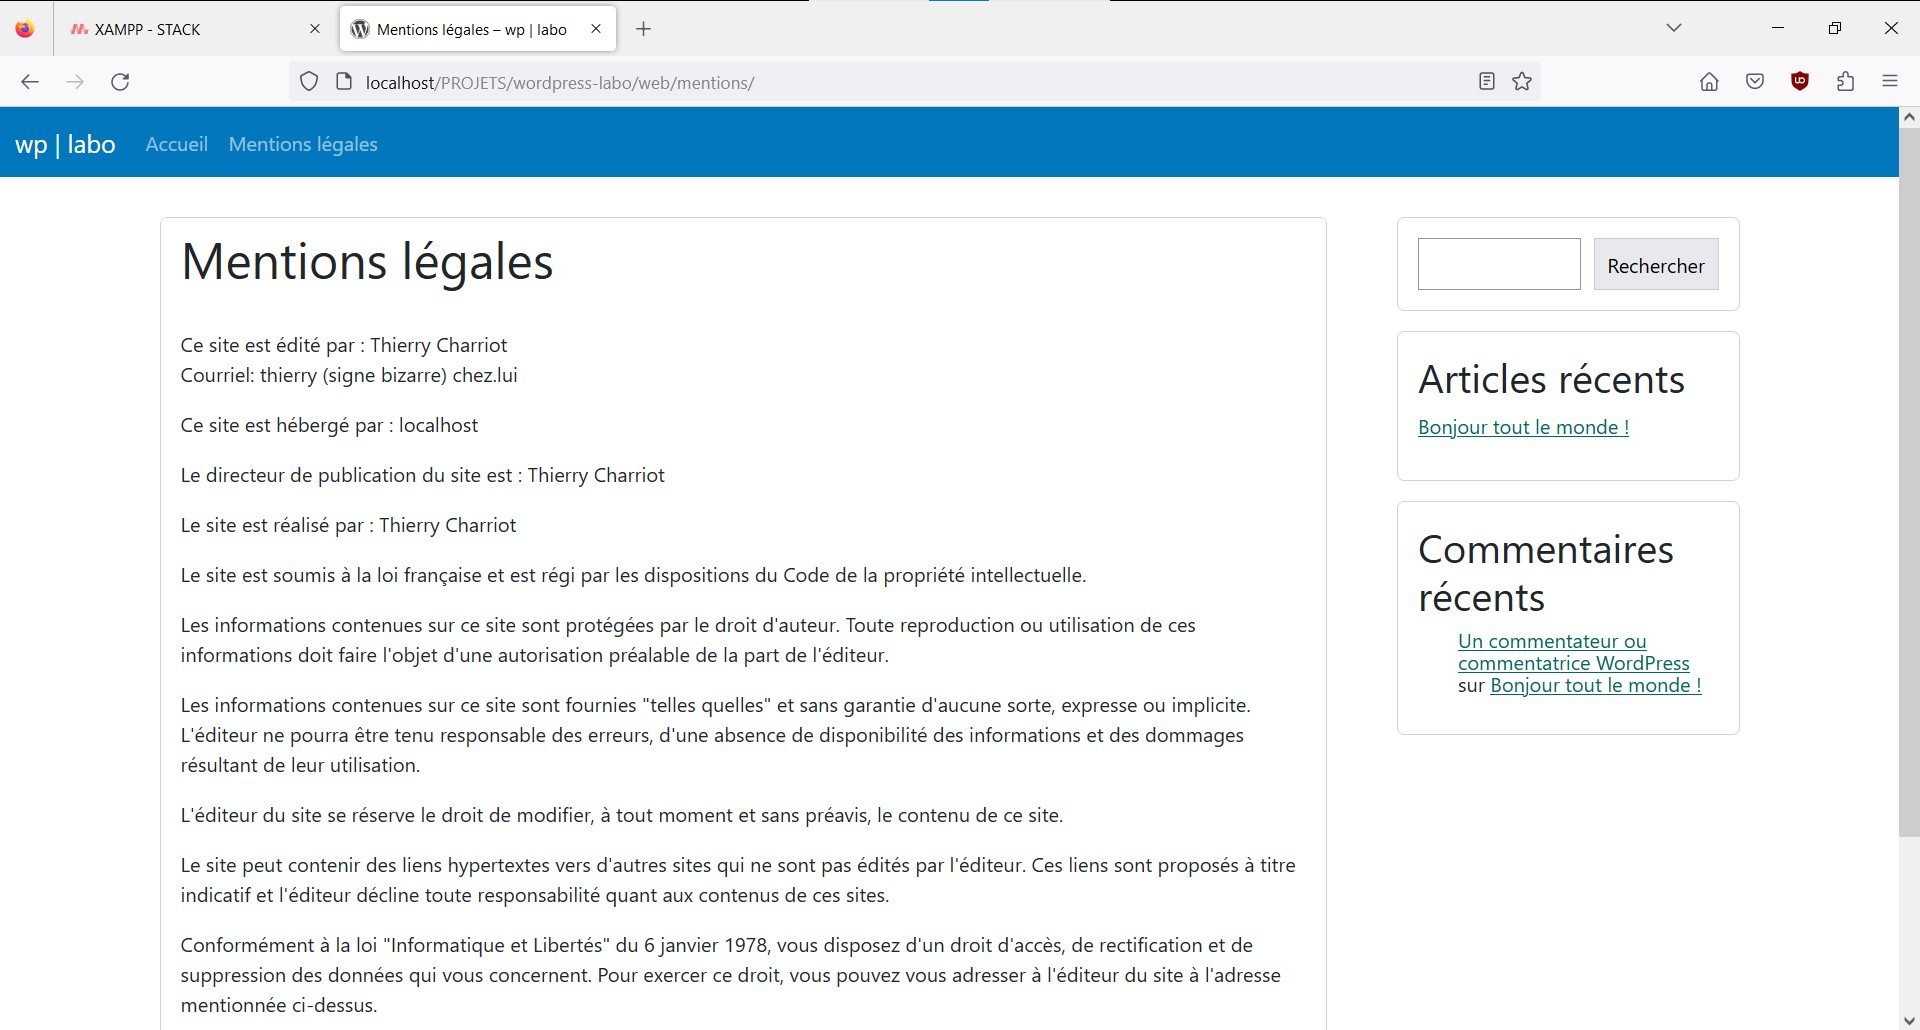
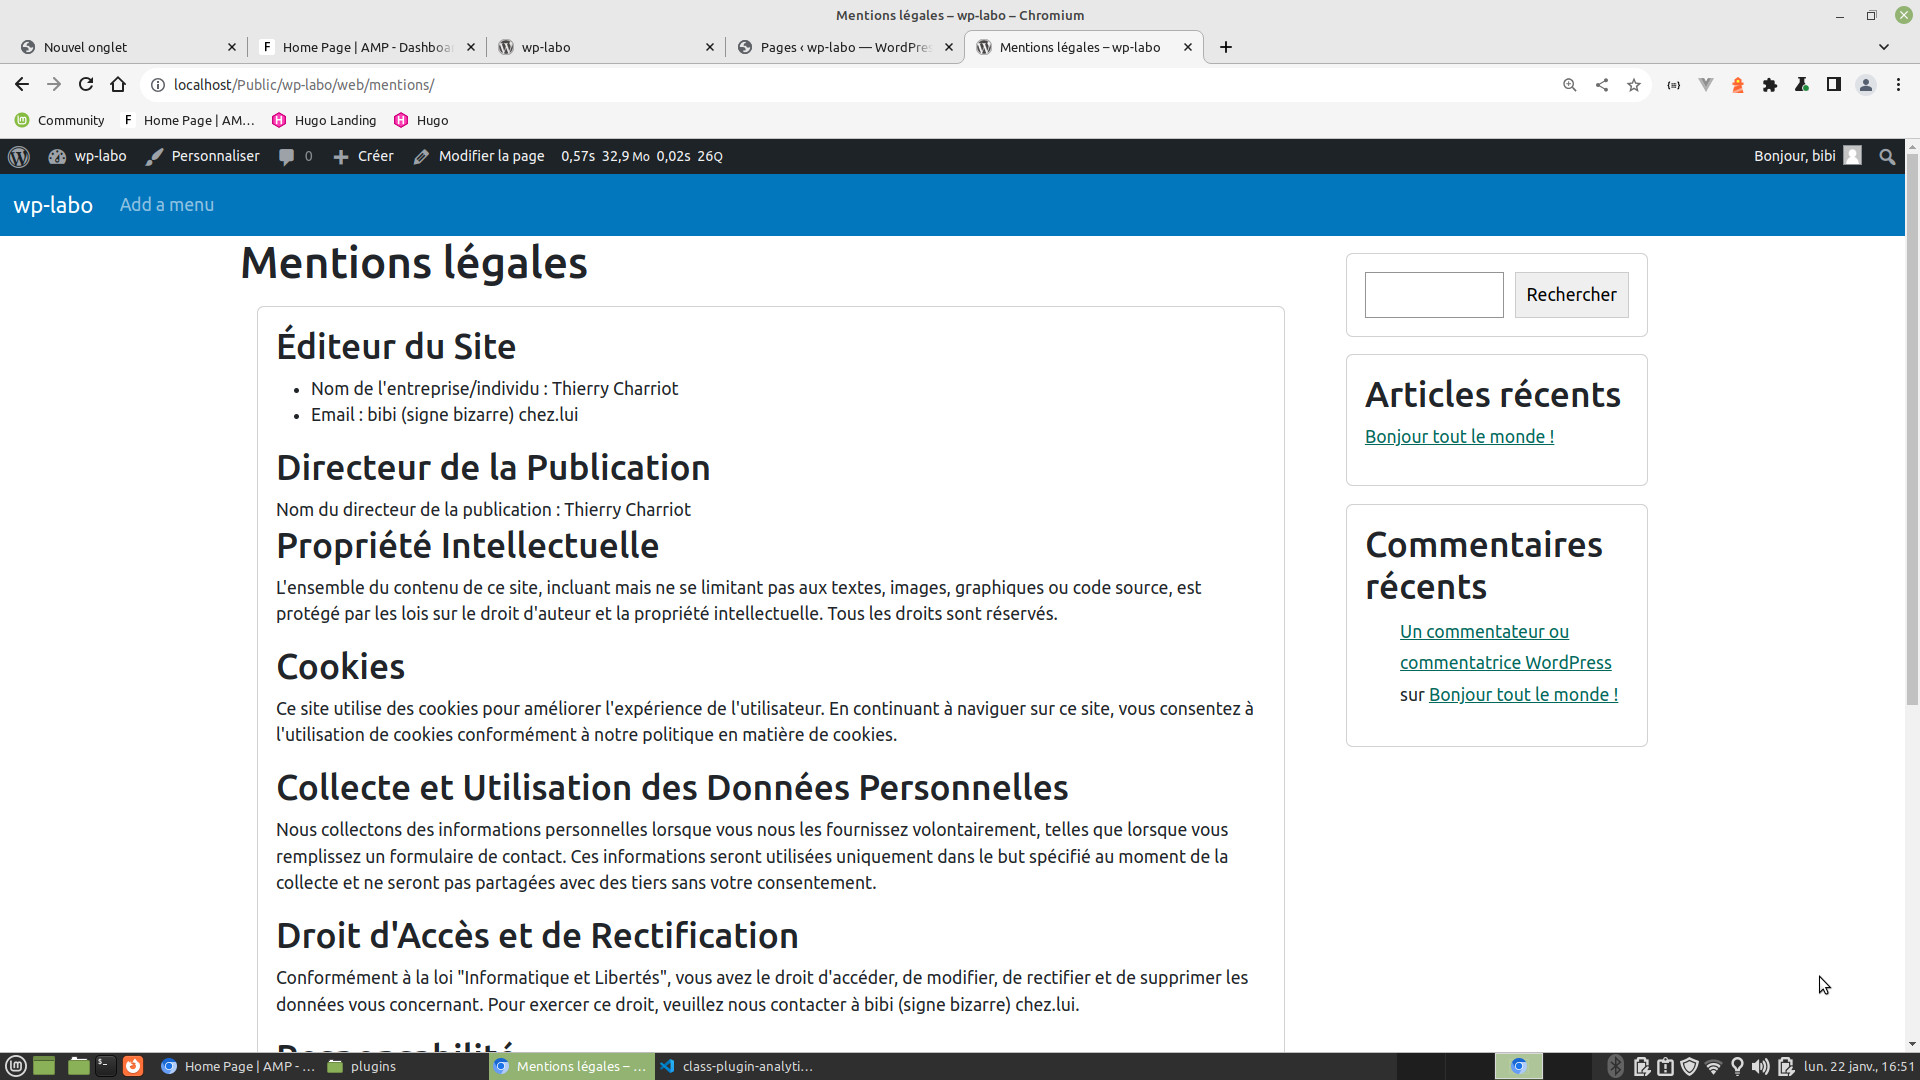
WIP various improvement

diff --git a/public/class-plugin-mentions-public.php b/public/class-plugin-mentions-public.php
@@ -132,101 +132,29 @@ class Plugin_Mentions_Public {
 
 	}
 
-	// https://www.youtube.com/watch?v=Rl3HR_vf0Rc
-	/**
-	 * Undocumented function
-	 *
-	 * @return void
-	 */
-	public static function plugin_templates_array() {
-
-		$temps = [];
-		$temps['mentions'] = 'Template Mentions';
-		//var_dump( $temps ); die(); // OK
-
-		return $temps;
-	}
-
-	// https://www.youtube.com/watch?v=Rl3HR_vf0Rc
-	/**
-	 * Undocumented function
-	 *
-	 * @param [type] $page_templates
-	 * @param [type] $theme
-	 * @param [type] $post
-	 * @return void
-	 */
-	public function plugin_templates_register( $page_templates, $theme, $post ) {
-
-		$templates = Plugin_Mentions_Public::plugin_templates_array();
-		//var_dump( $templates ); die(); //OK
-		
-		foreach ($templates as $key => $value) {
-			$page_templates[$key] = $value;
-		}
-		return $page_templates;
-		
-	}
-
-	// https://www.youtube.com/watch?v=Rl3HR_vf0Rc
-	/**
-	 * Undocumented function
-	 *
-	 * @param [type] $template
-	 * @return void
-	 */
-	public function plugin_templates_select( $template ) {
-
-		global $post, $wp_query, $wpdb;
-		//var_dump( $post->ID ); // OK
-
-		// https://developer.wordpress.org/reference/functions/get_permalink/
-		// get_permalink( int|WP_Post $post, bool $leavename = false ): string|false
-		// Retrieves the full permalink for the current post or post ID.
-		$page_template_slug = basename( get_permalink() );
-		//var_dump( $page_template_slug ); // OK
-
-		$templates = Plugin_Mentions_Public::plugin_templates_array();
-		//var_dump( $templates ); // Ok
-
-		if ( isset( $templates[$page_template_slug] ) ) {
-			$template = PLUGIN_MENTIONS_PATH . 'public/partials/plugin-mentions-public-display-' . $page_template_slug . '.php';
-		}
-
-		return $template;
-	}
-
 	/**
 	 * Load shortcode
-	 * Method called by class-plugin-json
+	 * 
 	 * @return void
 	 */
-	public function plugin_load_shortcode() {
+	public function plugin_mentions_display() {
 
-		global $post;
-		//var_dump( $post ); // OK
+		// https://www.php.net/manual/fr/function.ob-start.php
+		// ob_start — Enclenche la temporisation de sortie
+		ob_start();
 
-		if ( $post->post_name == 'mentions' ) {			
-			//var_dump( $post ); // OK
+		// https://www.php.net/manual/fr/function.require-once.php
+		require_once( PLUGIN_MENTIONS_PATH . 'public/partials/plugin-mentions-public-display.php' );
 
-			// https://www.php.net/manual/fr/function.ob-start.php
-			// ob_start — Enclenche la temporisation de sortie
-			ob_start();
+		// https://www.php.net/manual/fr/function.ob-get-contents.php
+		// ob_get_contents — Retourne le contenu du tampon de sortiee
+		$template = ob_get_contents();
 
-			// https://www.php.net/manual/fr/function.require-once.php
-			require_once( PLUGIN_MENTIONS_PATH . 'public/partials/plugin-mentions-public-display-shortcode.php' );
+		// https://www.php.net/manual/fr/function.ob-end-clean.php
+		// ob_end_clean — Détruit les données du tampon de sortie et éteint la temporisation de sortie
+		ob_end_clean();
 
-			// https://www.php.net/manual/fr/function.ob-get-contents.php
-			// ob_get_contents — Retourne le contenu du tampon de sortie
-			$template = ob_get_contents();
-
-			// https://www.php.net/manual/fr/function.ob-end-clean.php
-			// ob_end_clean — Détruit les données du tampon de sortie et éteint la temporisation de sortie
-			ob_end_clean();
-
-			echo( $template );
-		}
-
+		echo( $template );
 	}
 
 }

diff --git a/public/partials/plugin-mentions-public-display.php b/public/partials/plugin-mentions-public-display.php
@@ -14,3 +14,59 @@
 ?>
 
 <!-- This file should primarily consist of HTML with a little bit of PHP. -->
+
+<?php 
+    // https://developer.wordpress.org/reference/functions/get_userdata/
+    // get_userdata( int $user_id ): WP_User|false
+    // Retrieves user info by user ID.
+    $user_infos = get_userdata(1); 
+    //var_dump($user_infos); die(); // debug OK
+    $user_courriel = $user_infos->user_email;
+    $user_courriel = str_replace( '@', ' (signe bizarre) ', $user_courriel );
+?>
+
+<!-- ChatGPT 3.5  => Ecris moi une page de mentions légales pour un portfolio Wordpress -->
+
+<div class="card m-3">
+    <div class="card-body">
+        <h2>Éditeur du Site</h2>
+            <ul>
+                <li>Nom de l'entreprise/individu : <?php echo $user_infos->first_name .  " " . $user_infos->last_name; ?></li>
+                <!--<li>Adresse : [Votre Adresse]</li>-->
+                <!--<li>Téléphone : [Votre Numéro de Téléphone]</li>-->
+                <li>Email : <?php echo $user_courriel; ?></li>
+            </ul>
+
+        <h2>Directeur de la Publication</h2>
+            Nom du directeur de la publication : <?php echo $user_infos->first_name .  " " . $user_infos->last_name; ?>
+        <!--
+        <h2>Hébergement</h2>
+            
+            <ul>
+                <li>Nom de l'hébergeur : [Nom de l'Hébergeur]</li>
+                <li>Adresse : [Adresse de l'Hébergeur]</li>
+                <li>Téléphone : [Numéro de Téléphone de l'Hébergeur]</li>
+                <li>Email : [Adresse Email de l'Hébergeur]</li>
+            </ul>
+        -->
+        <h2>Propriété Intellectuelle</h2>
+        <p>L'ensemble du contenu de ce site, incluant mais ne se limitant pas aux textes, images, graphiques ou code source, est protégé par les lois sur le droit d'auteur et la propriété intellectuelle. Tous les droits sont réservés.</p>
+
+        <h2>Cookies</h2>
+        <p>Ce site utilise des cookies pour améliorer l'expérience de l'utilisateur. En continuant à naviguer sur ce site, vous consentez à l'utilisation de cookies conformément à notre politique en matière de cookies.</P>
+
+        <h2>Collecte et Utilisation des Données Personnelles</h2>
+        <p>Nous collectons des informations personnelles lorsque vous nous les fournissez volontairement, telles que lorsque vous remplissez un formulaire de contact. Ces informations seront utilisées uniquement dans le but spécifié au moment de la collecte et ne seront pas partagées avec des tiers sans votre consentement.</p>
+
+        <h2>Droit d'Accès et de Rectification</h2>
+        <p>Conformément à la loi "Informatique et Libertés", vous avez le droit d'accéder, de modifier, de rectifier et de supprimer les données vous concernant. Pour exercer ce droit, veuillez nous contacter à <?php echo $user_courriel; ?>.</p>
+
+        <h2>Responsabilité</h2>
+        <p>L'éditeur décline toute responsabilité quant à l'exactitude, l'exhaustivité ou la mise à jour des informations présentes sur ce site. L'utilisation des informations contenues sur ce site se fait sous la responsabilité exclusive de l'utilisateur.</p>
+
+        <h2>Contact</h2>
+        <p>Pour toute question ou demande d'information concernant le site et les mentions légales, veuillez nous contacter à l'adresse suivante : <?php echo $user_courriel; ?>.</p>
+    </div>
+</div>
+
+

diff --git a/includes/class-plugin-mentions.php b/includes/class-plugin-mentions.php
@@ -173,16 +173,10 @@ class Plugin_Mentions {
 		$this->loader->add_action( 'wp_enqueue_scripts', $plugin_public, 'enqueue_styles' );
 		$this->loader->add_action( 'wp_enqueue_scripts', $plugin_public, 'enqueue_scripts' );
 
-		// https://developer.wordpress.org/reference/functions/add_filter/
-		// add_filter( string $hook_name, callable $callback, int $priority = 10, int $accepted_args = 1 ): true
-		// Adds a callback function to a filter hook.
-		$this->loader->add_filter( 'theme_page_templates', $plugin_public, 'plugin_templates_register', 10, 3 );
-		$this->loader->add_filter( 'template_include', $plugin_public, 'plugin_templates_select', 99 );
-
 		// https://developer.wordpress.org/reference/functions/add_shortcode/
 		// add_shortcode( string $tag, callable $callback )
 		// Adds a new shortcode.
-		add_shortcode( 'shortcode-mentions', array( $plugin_public, 'plugin_load_shortcode') );
+		add_shortcode( 'afficher_mentions', array( $plugin_public, 'plugin_mentions_display') );
 
 	}
 

diff --git a/includes/class-plugin-mentions-deactivator.php b/includes/class-plugin-mentions-deactivator.php
@@ -30,13 +30,11 @@ class Plugin_Mentions_Deactivator {
 	 * @since    1.0.0
 	 */
 	public static function deactivate() {
-		
+
 		/**
 		 * Delete page on plugin deactivate
 		 * @link       https://github.com/thierrycharriot
 		 * @since      0.0.1
-		 */ 
-		/**
          * https://developer.wordpress.org/reference/classes/wpdb/
          */
 		global $wpdb;

diff --git a/includes/class-plugin-mentions-activator.php b/includes/class-plugin-mentions-activator.php
@@ -37,6 +37,7 @@ class Plugin_Mentions_Activator {
 		$create_page = array(
 			'post_author'	=> 1,
 			'post_title'    => 'Mentions légales',
+			'post_content'	=> '[afficher_mentions]',
 			'post_status'   => 'publish',
 			'post_type'		=> 'page',
 			'post_name'    	=> 'mentions'
